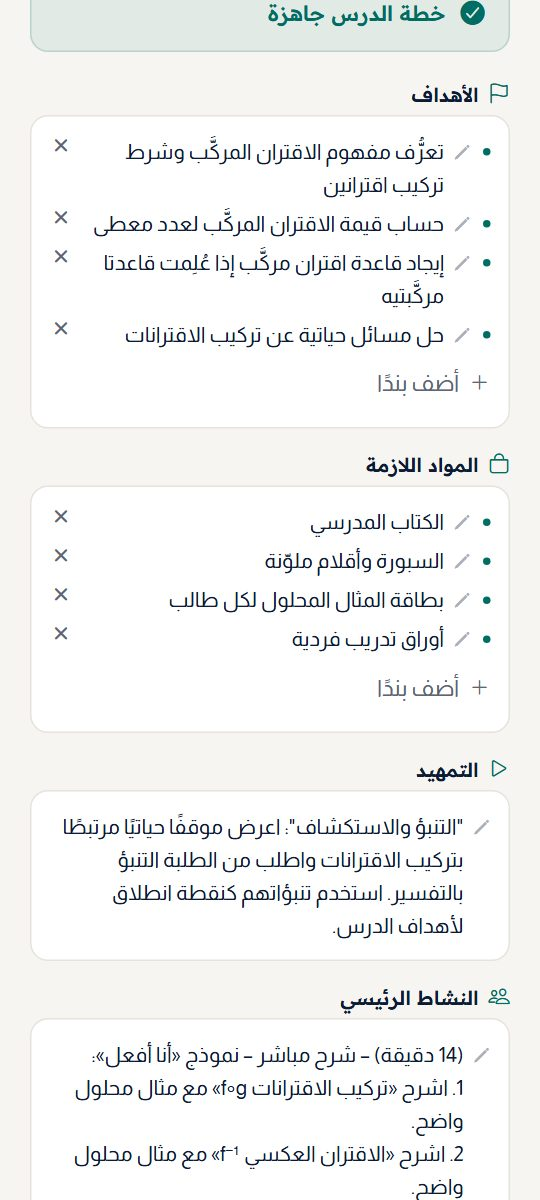
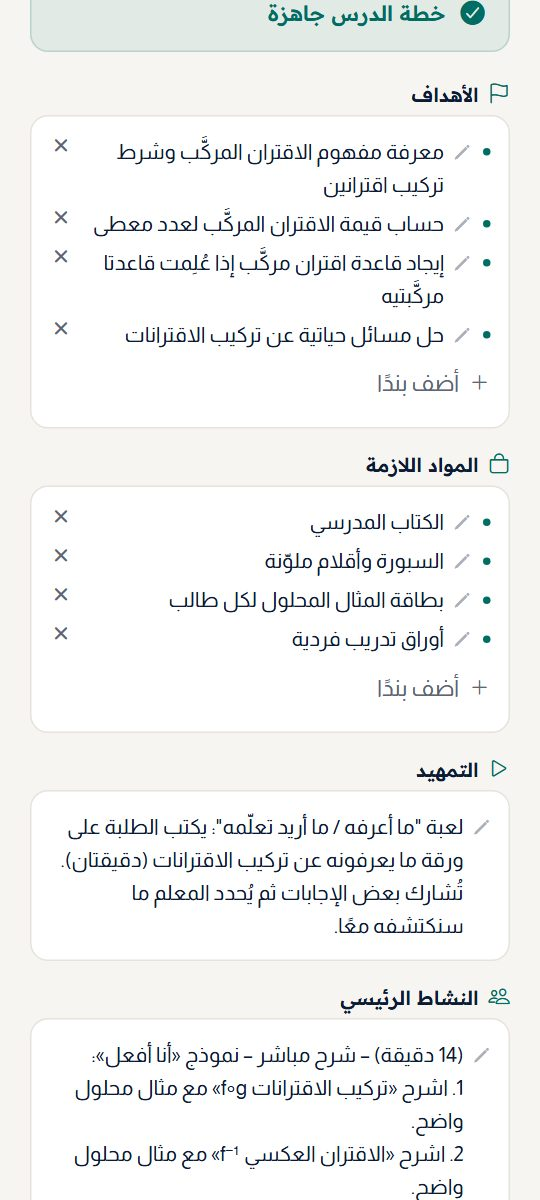
/download tour: editable plan instead of the empty chat; refresh plan-edit.jpg (#30)
- Third tour screen is now the lesson plan with its edit controls, as on the
  homepage. chat.jpg is deleted (nothing else used it).
- plan-edit.jpg re-captured from the current web app (demo mode, 360x800 at
  1.5x). Its first objective now reads «معرفة» instead of «تعرُّف», matching
  the app and the re-recorded hero clip; the homepage uses the same file.

Changed region(s): [[0.1185, 0.6783, 0.8593, 0.8017], [0.2074, 0.1233, 0.8296, 0.1542]]

diff --git a/download.html b/download.html
@@ -195,9 +195,9 @@
         <figcaption><strong>اطلب ما تحتاجه</strong>خطة درس، أو ورقة عمل، أو شرائح عرض، أو نشاط صفي تفاعلي.</figcaption>
       </figure>
       <figure>
-        <img src="img/chat.jpg" width="540" height="1200" loading="lazy"
-             alt="مساعد إقرأ: يساعد في التخطيط واقتراح الأفكار وإعداد الاختبارات.">
-        <figcaption><strong>اسأل المساعد</strong>لتعديل ما أنتجه، أو لاقتراح أفكار وأسئلة إضافية.</figcaption>
+        <img src="img/plan-edit.jpg" width="540" height="1200" loading="lazy"
+             alt="خطة درس جاهزة في التطبيق: الأهداف والمواد اللازمة والتمهيد، وبجانب كل بند أيقونات للتعديل والحذف وزر لإضافة بند.">
+        <figcaption><strong>راجع وعدّل</strong>عدّل أي بند، أو احذفه، أو أضف إليه بما يناسب طلبتك.</figcaption>
       </figure>
     </div>
   </div>

diff --git a/DESIGN.md b/DESIGN.md
@@ -170,3 +170,4 @@ Nested elements keep inner radius smaller than outer (e.g. a 24px card never con
 | 2026-10-07 | The hero's lead screenshot becomes a 190 KB silent H.264 clip (`img/hero-plan.mp4`, 540×1200, 9.9 s) cut from the 2026-10-06 Android recording: the pinned lesson, «أريد خطة درس» typed and sent, a 0.5 s fade over the generation wait, the plan appearing. Plays once at ≥60% visibility, holds the last frame; `img/hero-plan.jpg` (its first frame) is the poster and the still for no-JS / reduced-motion / Save-Data. The YouTube explainer stays under the steps | «Shall we add video?» — yes, but as the product moving inside the frame that already exists, not a player: a hero embed would push the screens back below the fold and cost ~500 KB before paint, and a loop would keep moving beside the headline. The wait is elided with a fade rather than sped up, so the clip does not pretend generation is instant. Known: the plan's first objective reads «تعرُّف مفهوم…»; the app is to say «معرفة», so re-cut once that ships |
 | 2026-10-07 | Hero has one job again: the Android waitlist form leaves the hero for `#android` and the hero keeps a single teal text link to it. Desktop (≥1024px) hero is two columns — copy on the right, the three screens on the left — so the product is on the first screen; phones keep the centered stack with the screenshot strip right after the buttons. Body paragraph cut to the promise. One label per destination: the header and hero trial buttons both read «حضّر حصّتك الأولى مجانًا» (phones get «جرّب مجانًا» in the header for width), the curriculum link is «تصفَّح المناهج» everywhere. A one-line proof strip under the buttons (grades · subjects · learning outcomes) is written by `tools-build-curriculum.mjs` from the published snapshot, so it cannot overstate. The free/browser note moved under the web buttons, which it describes | Review found four actions above the fold (header trial, hero trial, curriculum, Android form), the product 900px down on desktop, two labels for the same destination, no proof, and «التجربة» meaning both the web trial and the Android invite list. The 2026-10-06 ghost-button compromise kept the form in the hero; this removes it. The proof strip is the one number line added since the feature-card numerals went |
 | 2026-10-06 | Polish pass. Headings and short blocks use `text-wrap: balance` and paragraphs `text-wrap: pretty`, so no line ends on a stranded word. Phone screenshot strip gets a one-line swipe hint (gone after the first swipe) and 44px dots. Small footer and blog links get a 44px hit area (invisible pseudo-element). Homepage blog cards get a navy band showing the post's own number as text (٨ طرق, ٩ طرق, ١٠٠ أمر), taken from the title by `tools-build-blog.mjs`; the share-card images were not used because they repeat the title. The feedback form sits behind an «اكتب اقتراحك» button, and `/#feedback` opens it | Review items 6–10: stranded words, a weak swipe cue, tap targets of 22–30px, text-only blog cards, and the longest block on a phone being a four-field form beneath two email sign-ups |
+| 2026-10-08 | `/download` tour: the third screen is the editable lesson plan (`plan-edit.jpg`), not the empty chat screen; `chat.jpg` deleted. `plan-edit.jpg` re-captured from the current app, so the first objective reads «معرفة» rather than «تعرُّف» (the homepage uses the same file) | The tour still showed the empty-chat screen the homepage dropped on 2026-10-06; the old `plan-edit.jpg` predated the «معرفة» decision and contradicted the re-recorded hero clip on the same page |
